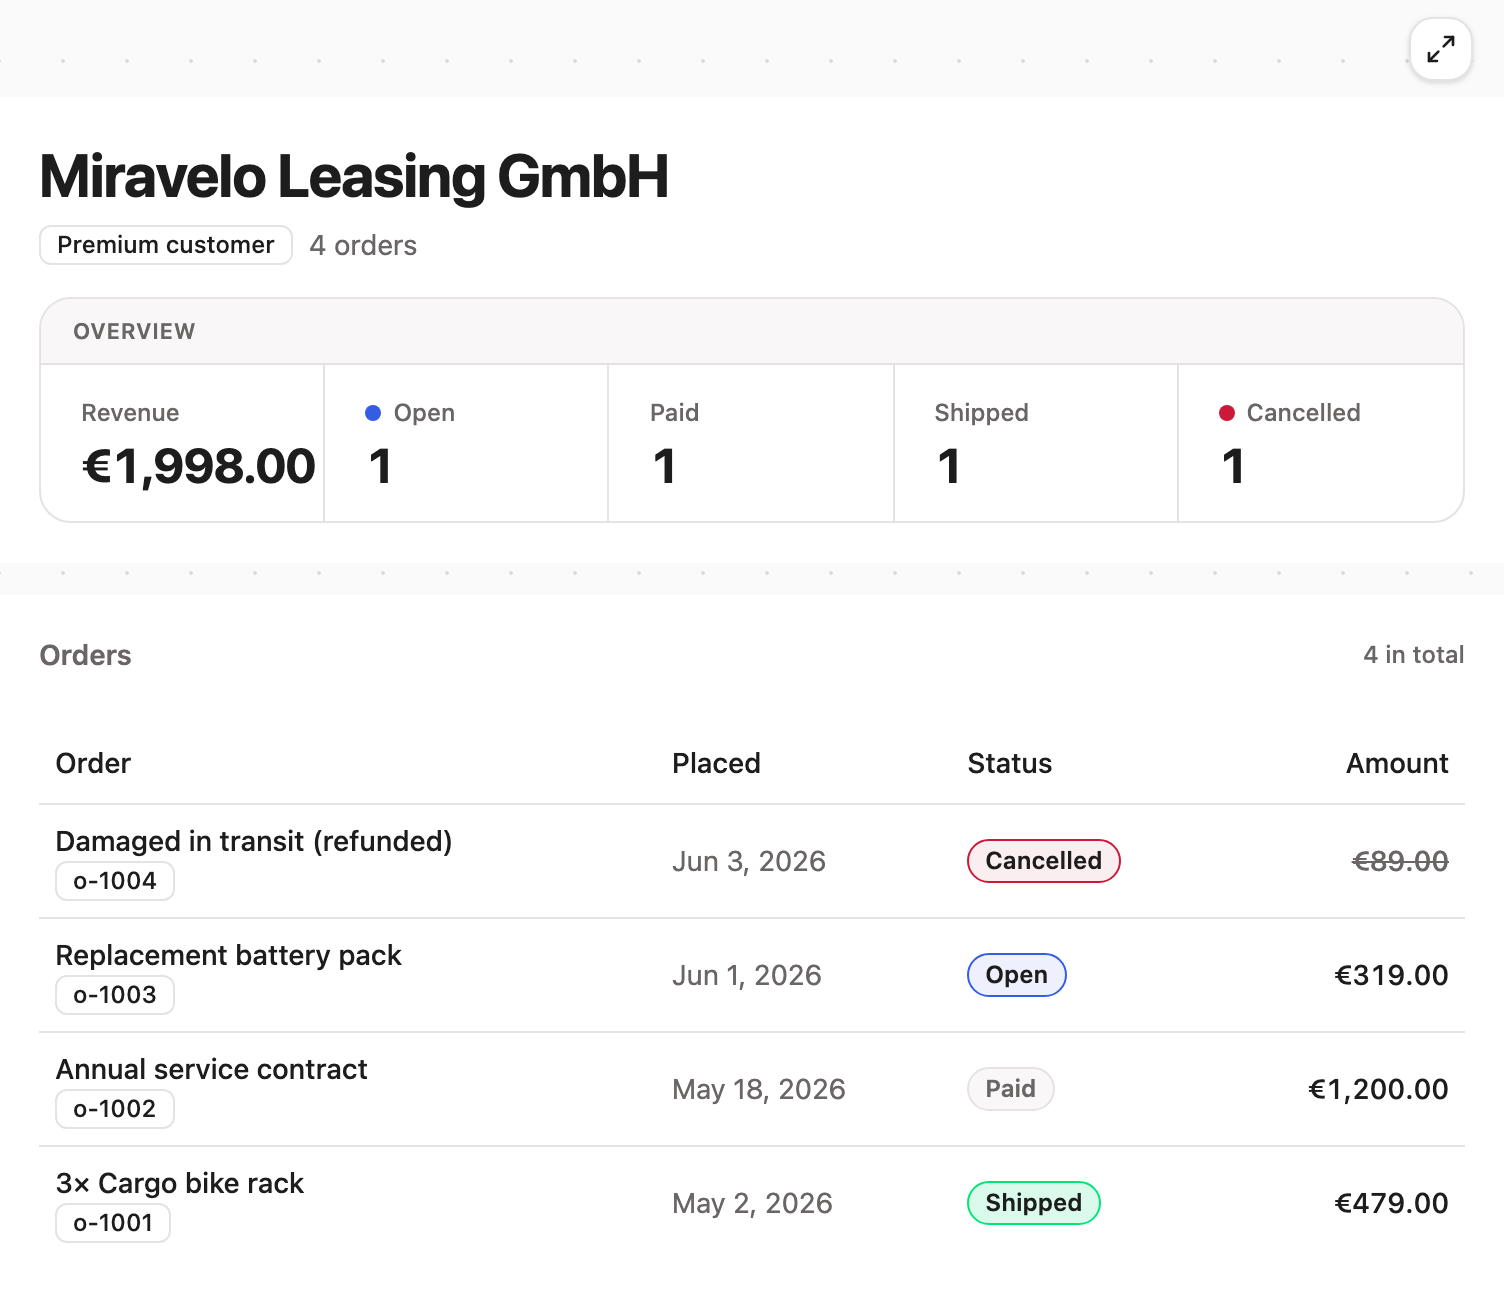
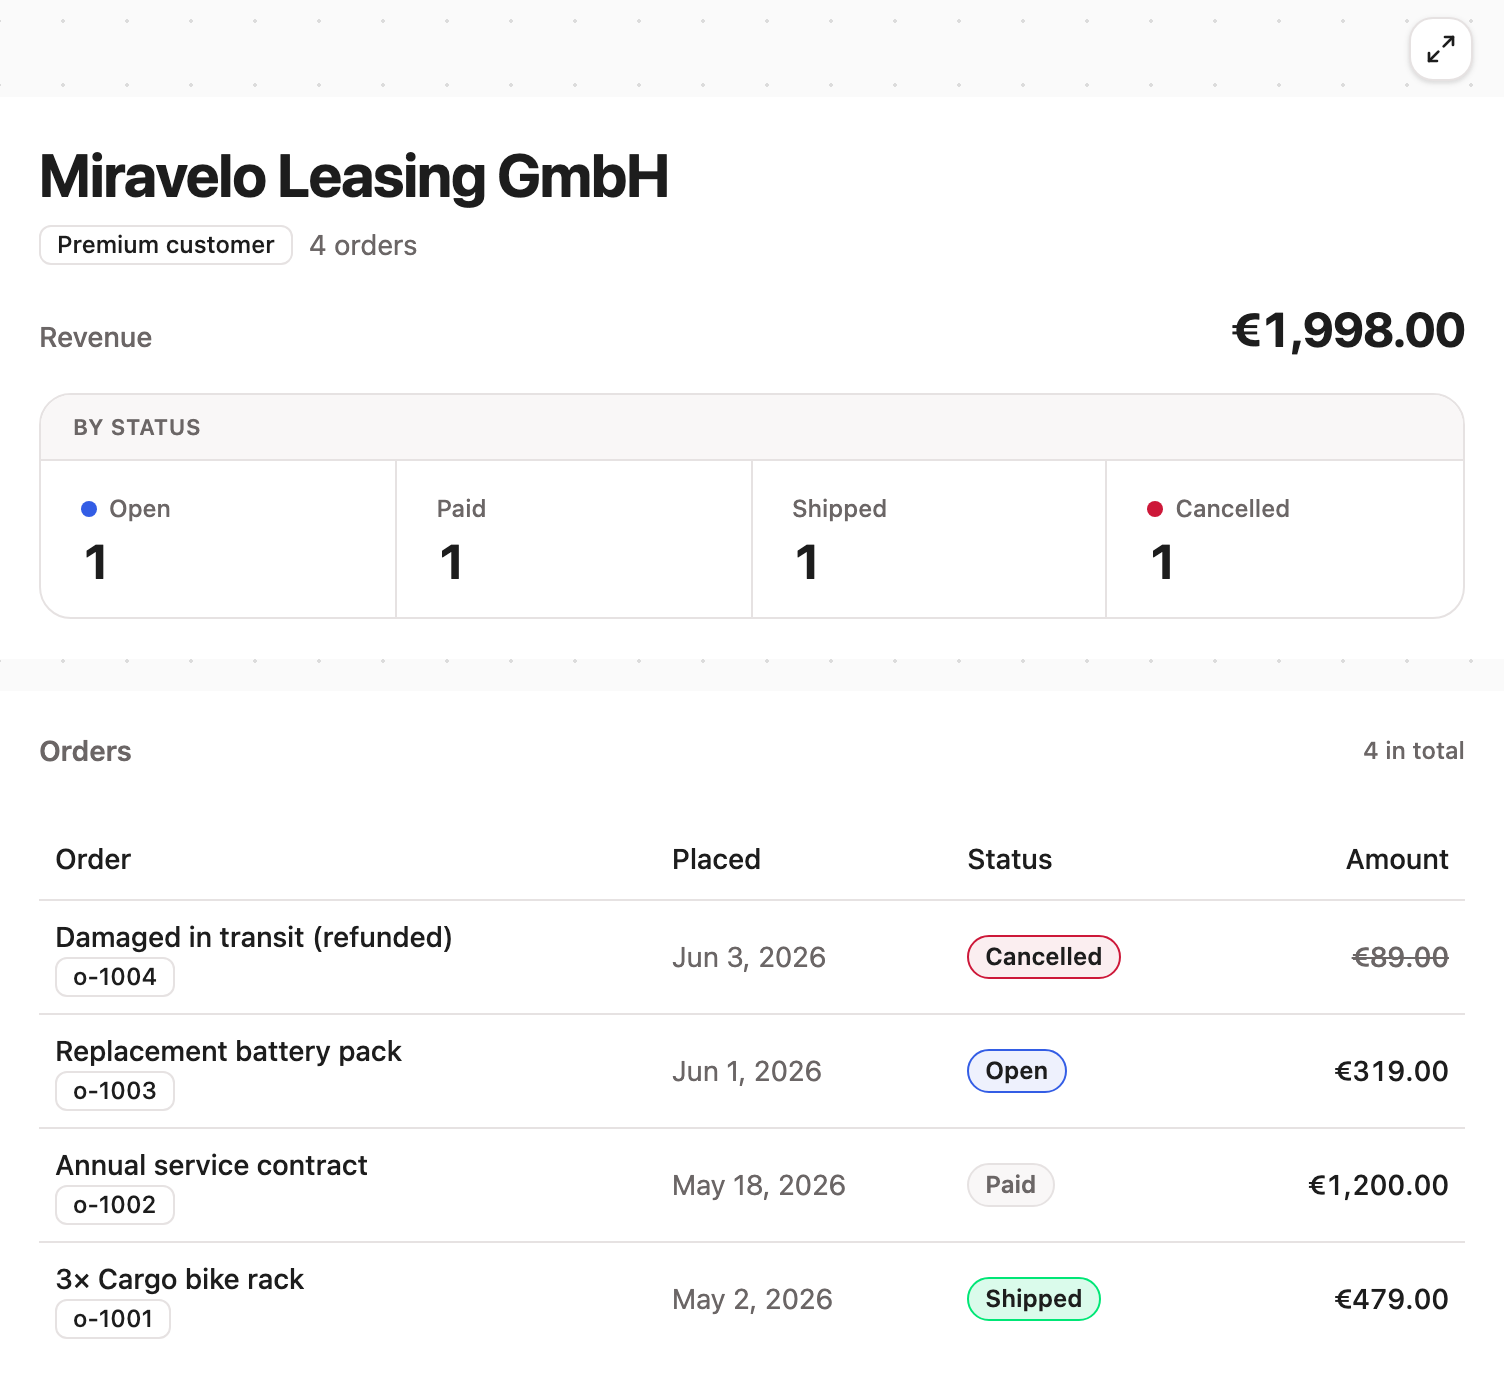
fix(ui): give the orders dashboard's revenue its own line and keep four KPI cells
Stacked full width, the five-cell strip still left the revenue tight: in
German, "1.998,00 €" touched the next cell at the 753 px inline frame of
the inspector, and narrower hosts would overlap it. The revenue is the
widget's headline figure, so it now stands on its own line under the
customer, and the strip keeps the four counts by status ("By status" /
"Nach Status"), which the review asked for (at most four cells).
Measured after the change in the inspector at 753 px: no two KPI values
intersect, no horizontal scroll, in English and German.

The show_orders_dashboard description says what the view shows now ("the
revenue and the order counts by status above a table", it said "next to");
the tools golden changes by that sentence. The docs images are regenerated
with `pnpm docs:shots`.

diff --git a/examples/modules/orders/widgets/OrdersKpi.tsx b/examples/modules/orders/widgets/OrdersKpi.tsx
@@ -3,8 +3,8 @@ import type { OrdersDashboardData } from "../store.js"
 import { formatEuro, useOrdersText } from "./messages.js"
 
 /**
- * OrdersKpi: the top widget of the orders dashboard, a KPI strip with the
- * customer's revenue and the per-status order counts. Its header names the
+ * OrdersKpi: the top widget of the orders dashboard: the customer's revenue
+ * as the headline figure and a KPI strip with the per-status order counts. Its header names the
  * customer, so the composed view needs no title of its own.
  *
  * Data contract: this is a single-data `({ data })` widget. It is registered via
@@ -42,12 +42,22 @@ export function OrdersKpi({ data }: { data: OrdersDashboardData | null }) {
         }
       />
 
-      {/* The headline metrics. Pre-format the currency: KpiGrid renders values verbatim. */}
+      {/* Revenue is the headline figure, on its own line: an amount needs more
+          room than a fifth of an inline chat frame gives a KPI cell (German
+          "1.998,00 €" touched the next cell at 760 px). Pre-formatted, since
+          the toolkit renders values verbatim. */}
+      <div className="flex flex-wrap items-baseline justify-between gap-x-4 gap-y-1">
+        <span className="text-muted-foreground text-sm font-medium">{text.revenue}</span>
+        <span className="text-foreground text-2xl font-bold tracking-tight tabular-nums">
+          {formatEuro(revenueCents, locale)}
+        </span>
+      </div>
+
+      {/* The order counts by status: four cells, so each keeps its figure readable. */}
       <KpiGrid
         boxed
         header={{ label: text.kpiHeader }}
         cells={[
-          { label: text.revenue, value: formatEuro(revenueCents, locale) },
           {
             label: text.status.open,
             value: count(counts.open),

diff --git a/examples/modules/orders/widgets/messages.ts b/examples/modules/orders/widgets/messages.ts
@@ -13,7 +13,7 @@ export interface OrdersText {
   tier: Record<Customer["tier"], string>
   /** "4 orders"; `formatted` is the count in the widget's locale. */
   orderCount: (count: number, formatted: string) => string
-  /** Header of the KPI strip (the table below is titled "Orders"). */
+  /** Header of the strip with the counts by status (the table below is titled "Orders"). */
   kpiHeader: string
   revenue: string
   status: Record<OrderStatus, string>
@@ -27,7 +27,7 @@ export interface OrdersText {
 const en: OrdersText = {
   tier: { standard: "Standard customer", premium: "Premium customer" },
   orderCount: (count, formatted) => `${formatted} ${count === 1 ? "order" : "orders"}`,
-  kpiHeader: "Overview",
+  kpiHeader: "By status",
   revenue: "Revenue",
   status: { open: "Open", paid: "Paid", shipped: "Shipped", cancelled: "Cancelled" },
   tableTitle: "Orders",
@@ -40,7 +40,7 @@ const en: OrdersText = {
 const de: OrdersText = {
   tier: { standard: "Standardkunde", premium: "Premiumkunde" },
   orderCount: (count, formatted) => `${formatted} ${count === 1 ? "Bestellung" : "Bestellungen"}`,
-  kpiHeader: "Überblick",
+  kpiHeader: "Nach Status",
   revenue: "Umsatz",
   status: { open: "Offen", paid: "Bezahlt", shipped: "Versendet", cancelled: "Storniert" },
   tableTitle: "Bestellungen",

diff --git a/examples/modules/orders/plugin.ts b/examples/modules/orders/plugin.ts
@@ -56,7 +56,7 @@ const customerSchema = z.object({
 
 /**
  * The eager dashboard layout: TWO full-width rows — the KPI strip on top, the
- * orders table below. Side by side (5 + 7 columns) the five KPI figures and the
+ * orders table below. Side by side (5 + 7 columns) the KPI figures and the
  * table's Amount column ran out of room at a chat's inline width (about 760 px).
  * This is the same `LayoutConfig` shape `render-view` takes, so the eager path
  * and the pipeline path share an identical layout model (compare
@@ -129,7 +129,7 @@ function registerOrderWidgetTools(server: MCPServer, store: OrderStore) {
       name: SHOW_ORDERS_DASHBOARD,
       title: "Orders dashboard",
       description:
-        "Show the orders dashboard for a customer: a KPI strip (per-status counts + revenue) next to a table of the customer's orders. The orders view; use it whenever the user wants to see a customer's orders at a glance.",
+        "Show the orders dashboard for a customer: the revenue and the order counts by status above a table of the customer's orders. The orders view; use it whenever the user wants to see a customer's orders at a glance.",
       annotations: { readOnlyHint: true, idempotentHint: true, openWorldHint: false },
       inputSchema: z.object({
         customerId: z

diff --git a/examples/modules/orders/README.md b/examples/modules/orders/README.md
@@ -83,8 +83,8 @@ return { content: view.content, structuredContent: view.structuredContent }
 The native `view` binding (+ `appsSdkMeta` for Apps SDK hosts) tells the host to render the result as
 UI. The layout is a **12-column grid** of rows: the KPI strip and the table each
 take a full row (`span: 12`), so both stay readable at a chat's inline width
-(about 760 px). Side by side, the five KPI figures and the table's Amount column
-run out of room there.
+(about 760 px). Side by side, the KPI figures and the table's Amount column run
+out of room there.
 
 The data flow is direct — no executor in the loop:
 
